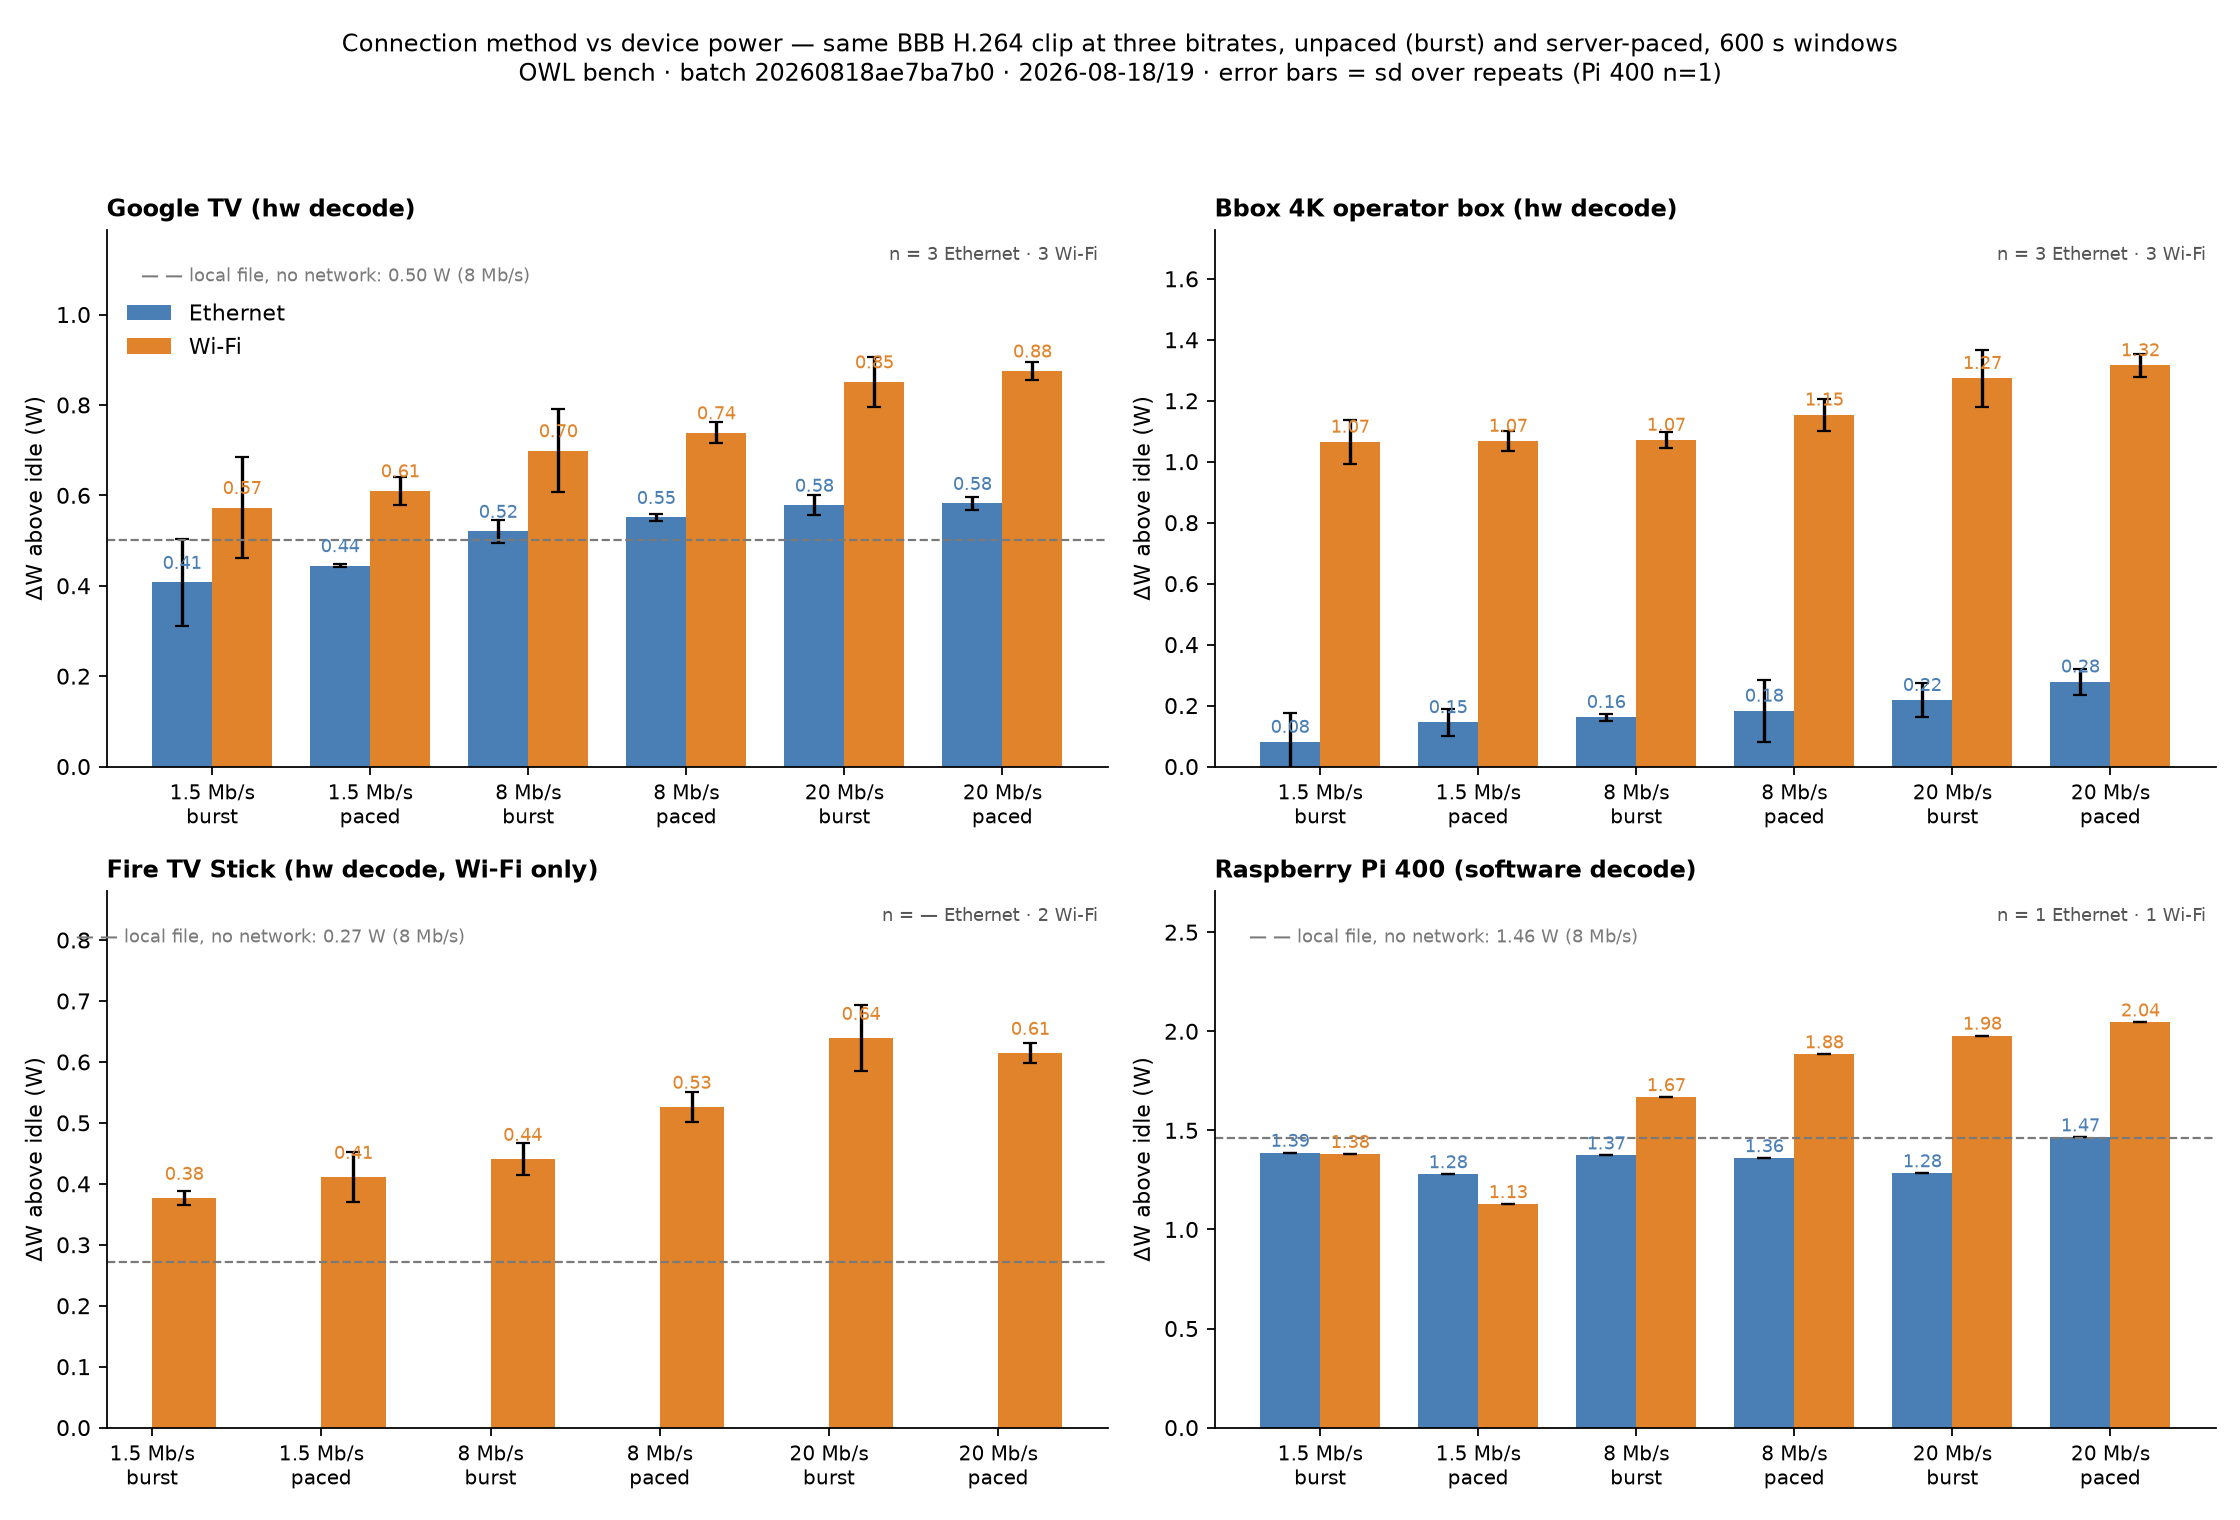
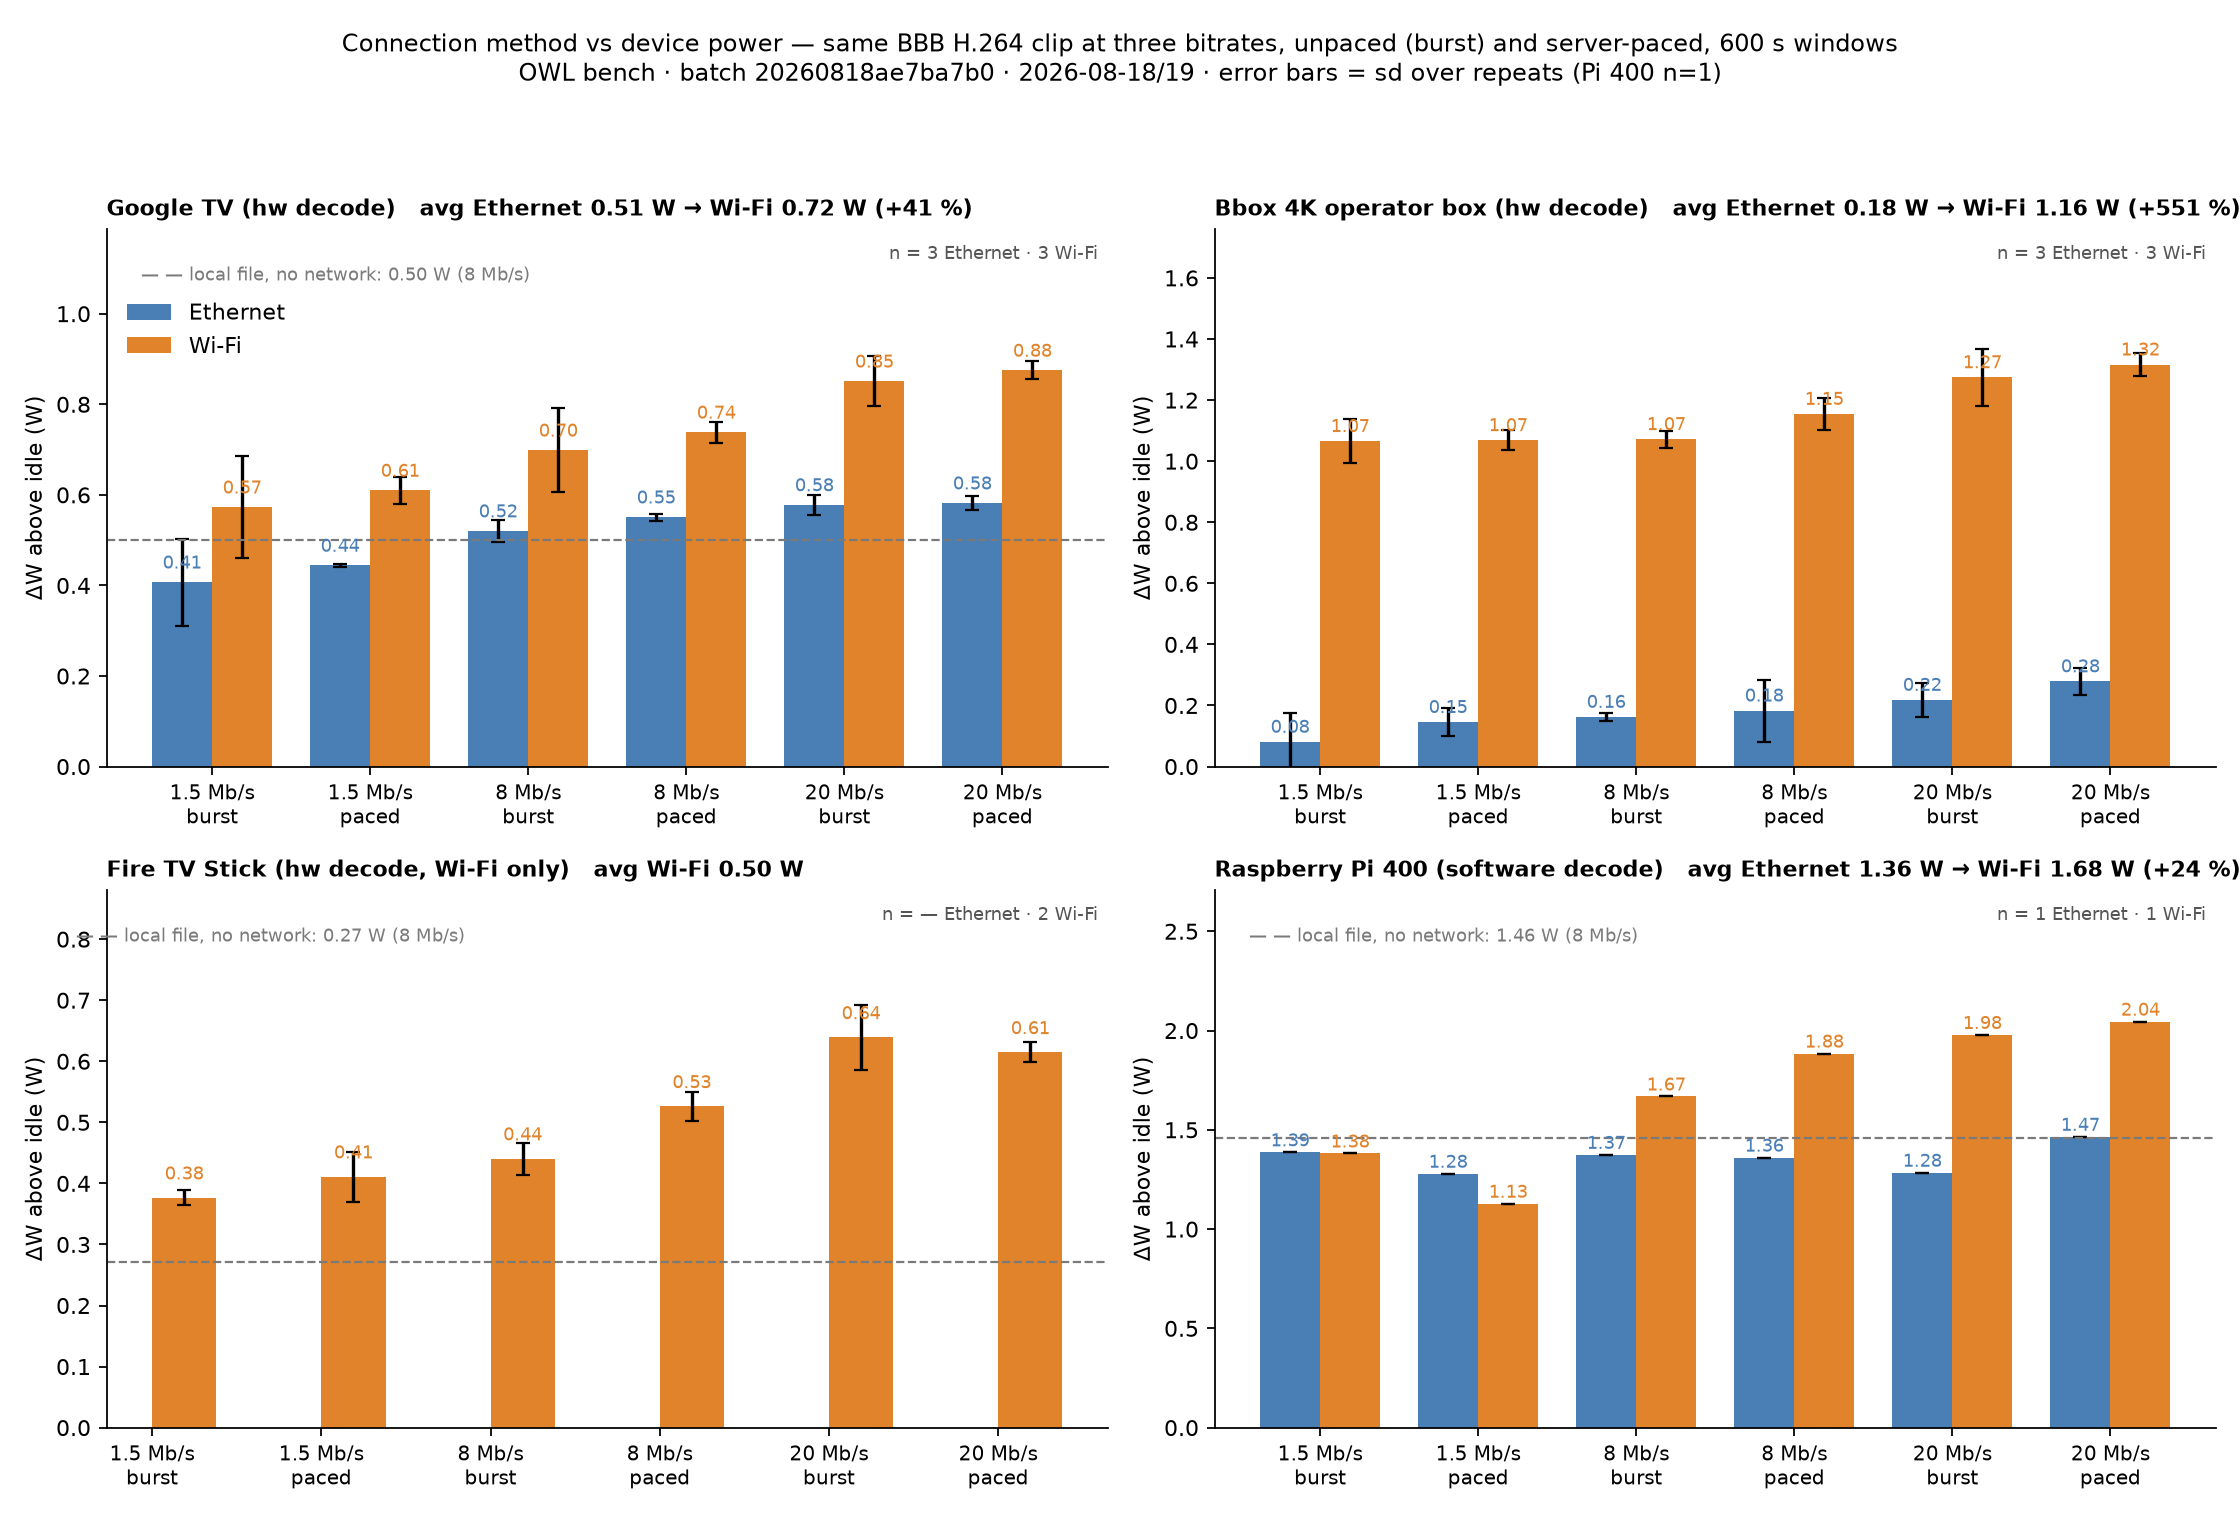
CR-074 charts: Wi-Fi premium also as % of the Ethernet figure (summary + per-panel averages)
Claude-Session: https://claude.ai/code/session_013bk2bL8bQLt3bbuRbLaXyB

diff --git a/docs/netpath_2026-08-18/make_charts.py b/docs/netpath_2026-08-18/make_charts.py
@@ -44,7 +44,9 @@ for ax,(dev,label) in zip(axes,DEV):
         ax.axhline(loc[0],color=LOC,ls="--",lw=1)
         ax.text(-0.45,top*0.93,f"— — local file, no network: {loc[0]:.2f} W (8 Mb/s)",fontsize=8,color=LOC,va="top")
     ax.set_xticks(x); ax.set_xticklabels([f"{kb/1000:g} Mb/s\n{pc}" for kb,pc in CASES],fontsize=9)
-    ax.set_ylabel("ΔW above idle (W)"); ax.set_title(label,fontsize=11,loc="left",fontweight="bold")
+    ev=[v[0] for v in eth if v[0] is not None]; wv=[v[0] for v in wifi if v[0] is not None]
+    avg = (f"   avg Ethernet {st.mean(ev):.2f} W → Wi-Fi {st.mean(wv):.2f} W (+{100*(st.mean(wv)-st.mean(ev))/st.mean(ev):.0f} %)" if ev and wv else (f"   avg Wi-Fi {st.mean(wv):.2f} W" if wv else ""))
+    ax.set_ylabel("ΔW above idle (W)"); ax.set_title(label+avg,fontsize=10,loc="left",fontweight="bold")
     ax.set_ylim(0,top)
     n_e=max([v[2] for v in eth] or [0]); n_w=max([v[2] for v in wifi] or [0])
     ax.text(0.99,0.97,f"n = {n_e or '—'} Ethernet · {n_w} Wi-Fi",transform=ax.transAxes,ha="right",va="top",fontsize=8,color="#555")
@@ -65,10 +67,10 @@ ax.bar(x+wdt/2,W,wdt,yerr=Werr,color=WIFI,label="Wi-Fi (mean of the 6 sub-cases)
 for i in range(len(labels)):
     if E[i]: ax.text(i-wdt/2,E[i]+0.03,f"{E[i]:.2f}",ha="center",fontsize=9,color=ETH)
     ax.text(i+wdt/2,W[i]+0.03,f"{W[i]:.2f}",ha="center",fontsize=9,color=WIFI)
-    if E[i]: ax.text(i,max(E[i],W[i])+0.2,f"Wi-Fi +{W[i]-E[i]:.2f} W",ha="center",fontsize=10,fontweight="bold",color="#333")
+    if E[i]: ax.text(i,max(E[i],W[i])+0.2,f"Wi-Fi +{W[i]-E[i]:.2f} W  (+{100*(W[i]-E[i])/E[i]:.0f} %)",ha="center",fontsize=10,fontweight="bold",color="#333")
     else: ax.text(i,W[i]+0.2,"(no Ethernet port)",ha="center",fontsize=9,color="#777")
 ax.set_xticks(x); ax.set_xticklabels(labels,fontsize=9); ax.set_ylabel("ΔW above idle (W)"); ax.legend(frameon=False,loc="upper left")
 ax.set_title("Ethernet vs Wi-Fi — average extra power while playing, per device and overall\n(averaged over 1.5 / 8 / 20 Mb/s × burst/paced; one content (BBB); Fire TV is Wi-Fi only)",fontsize=11,loc="left")
-ax.set_ylim(0,max(W)*1.4); fig2.tight_layout(); fig2.savefig("netpath_summary.png",dpi=160)
+ax.set_ylim(0,max(W)*1.45); fig2.tight_layout(); fig2.savefig("netpath_summary.png",dpi=160)
 json.dump({"per_device":{l:{"eth":e,"wifi":w} for l,e,w in zip(labels,E,W)}}, open("netpath_summary.json","w"), indent=1)
 print("charts ok", {l:(round(e,2),round(w,2)) for l,e,w in zip(labels,E,W)})
